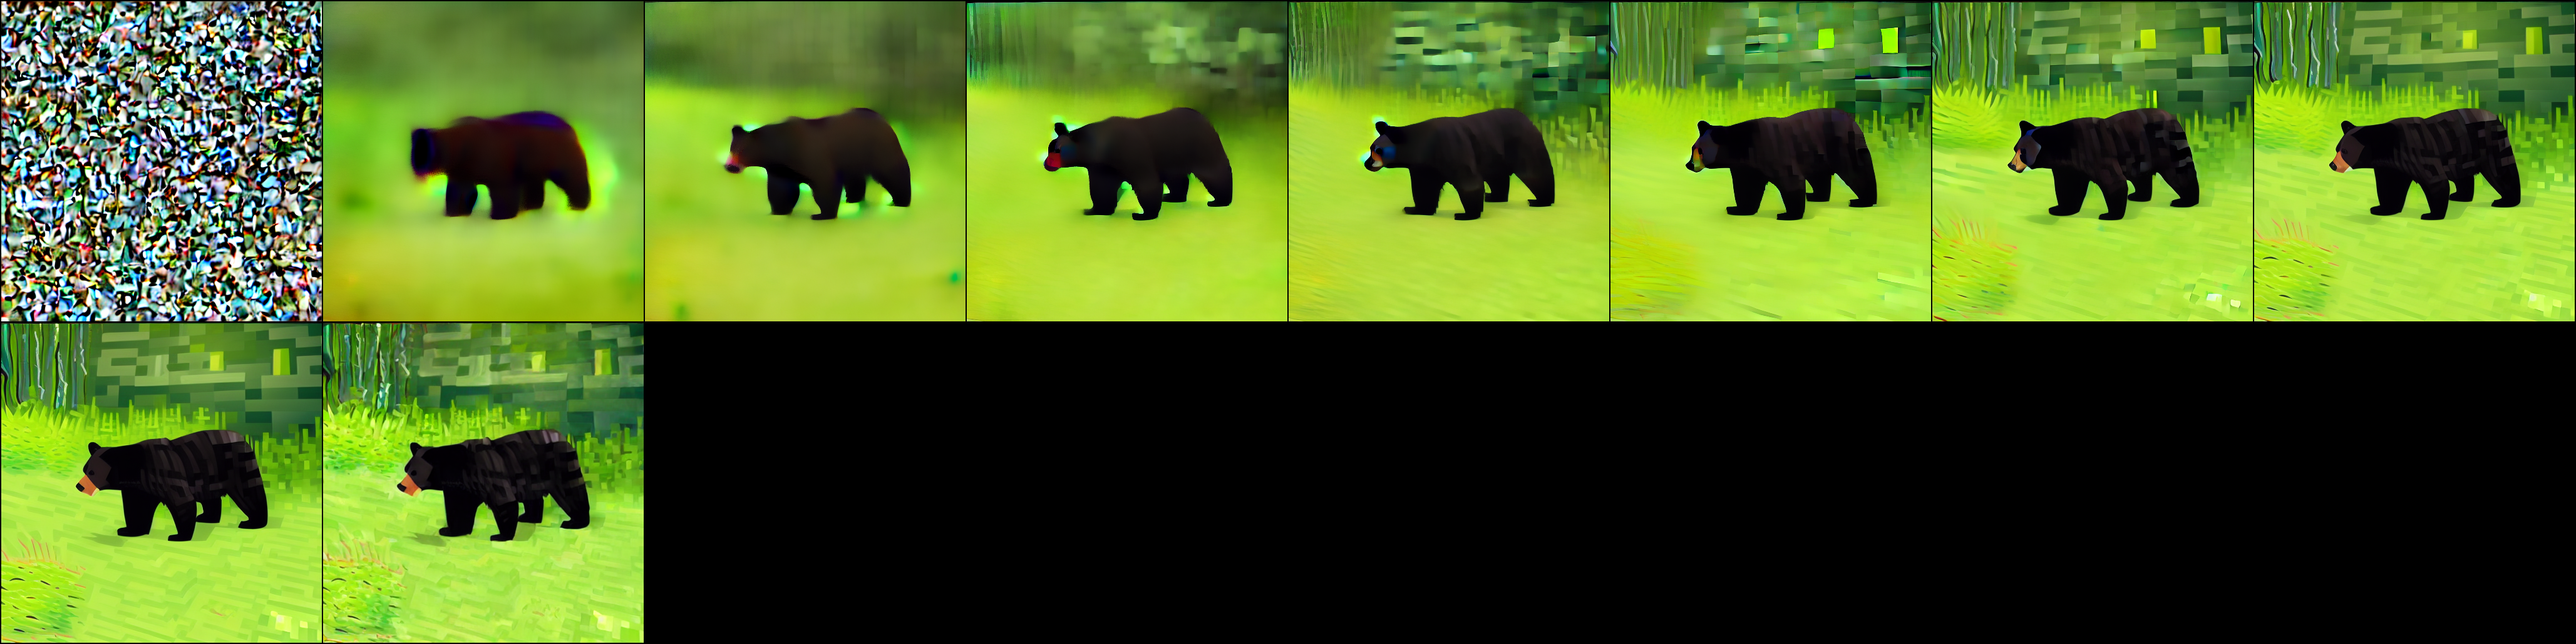
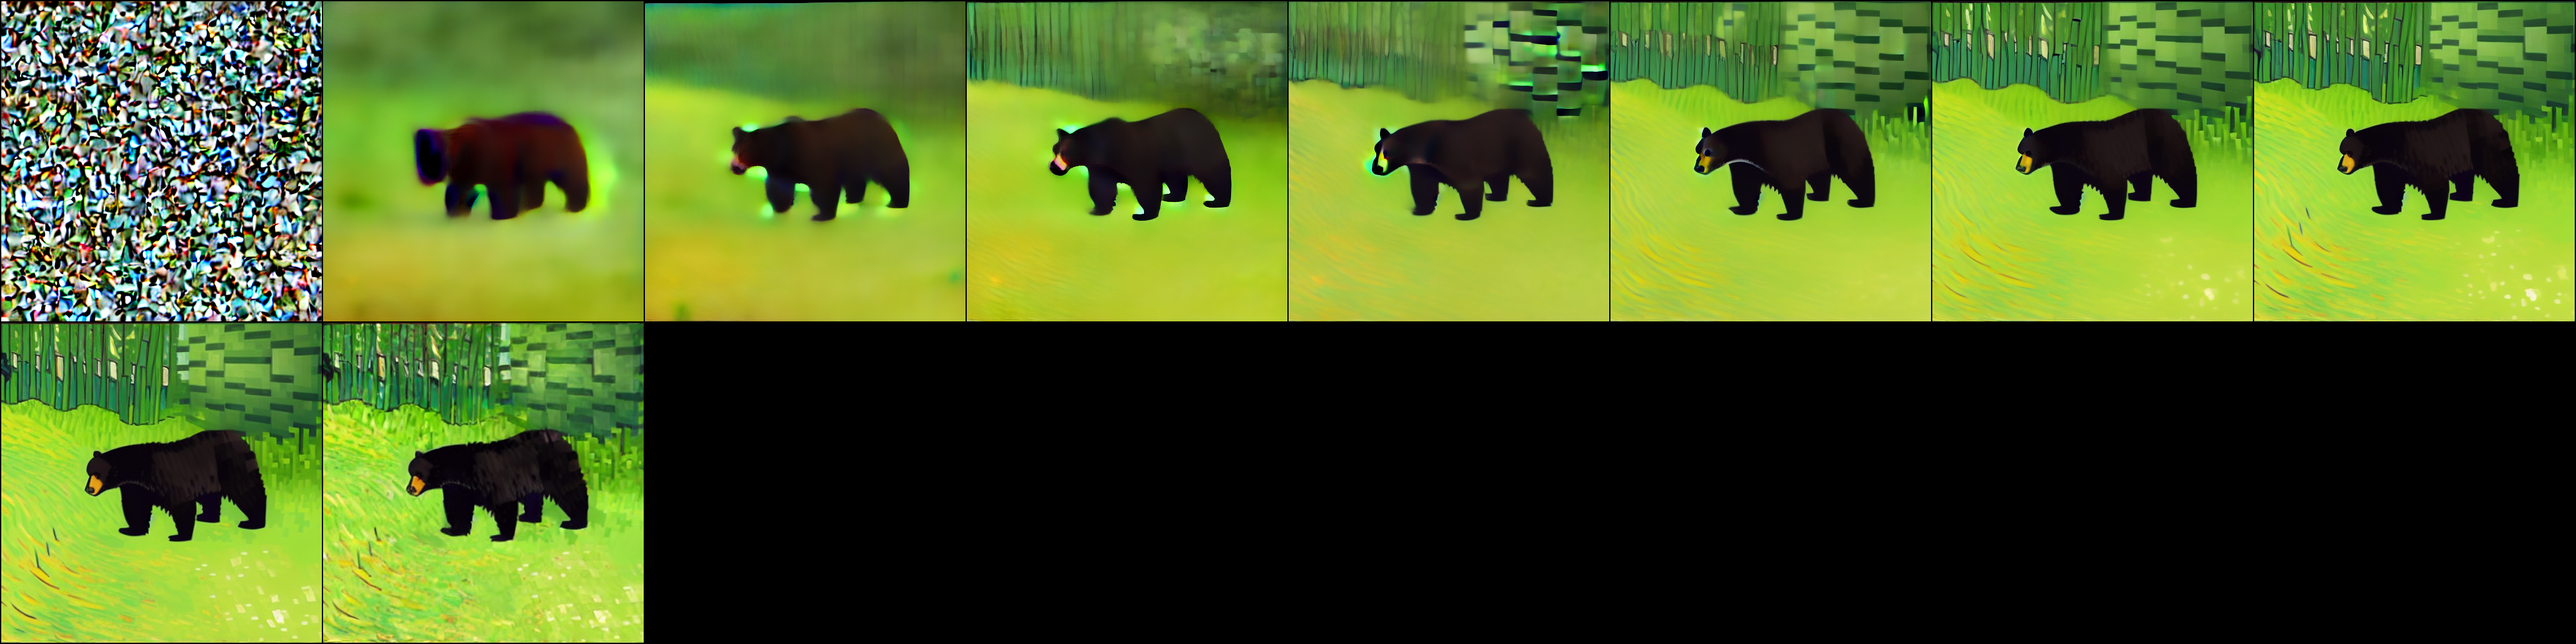
evaluator

diff --git a/evaluation/utils.py b/evaluation/utils.py
@@ -2,6 +2,10 @@ import numpy as np
 import torch
 import cv2
 from torchvision import utils
+import lpips
+import torch.nn.functional as F
+from torchvision.models import inception_v3
+from scipy.linalg import sqrtm
 
 
 def save_image(image_path, image):
@@ -65,3 +69,57 @@ def calculate_psnr(img1, img2):
     if mse == 0:
         return 100
     return 10 * torch.log10(1 / mse)
+
+
+def calculate_lpips(img1, img2):
+    device = torch.device('cuda' if torch.cuda.is_available() else 'cpu')
+    
+    if isinstance(img1, np.ndarray):
+        img1 = torch.from_numpy(img1)
+    if isinstance(img2, np.ndarray):
+        img2 = torch.from_numpy(img2)
+    
+    if img1.ndim == 2:
+        img1 = img1.unsqueeze(0).repeat(3, 1, 1)
+    elif img1.ndim == 3:
+        if img1.shape[0] != 3 and img1.shape[2] == 3:
+            img1 = img1.permute(2, 0, 1)
+    if img2.ndim == 2:
+        img2 = img2.unsqueeze(0).repeat(3, 1, 1)
+    elif img2.ndim == 3:
+        if img2.shape[0] != 3 and img2.shape[2] == 3:
+            img2 = img2.permute(2, 0, 1)
+    
+    img1 = img1.unsqueeze(0).float()
+    img2 = img2.unsqueeze(0).float()
+    
+    def normalize_img(tensor):
+        if tensor.max() > 1:
+            return tensor / 127.5 - 1.0
+        else:
+            return tensor * 2 - 1.0
+    
+    img1 = normalize_img(img1)
+    img2 = normalize_img(img2)
+    
+    loss_fn = lpips.LPIPS(net='vgg').to(device)
+    img1 = img1.to(device)
+    img2 = img2.to(device)
+    
+    with torch.no_grad():
+        dist = loss_fn(img1, img2)
+    
+    return dist.item()
+
+def total_variation(image):
+    image = image.float()
+    
+    diff_h = image[:, :, 1:] - image[:, :, :-1]
+    diff_v = image[:, 1:, :] - image[:, :-1, :]
+    
+    tv_h = torch.sqrt(diff_h ** 2 + 1e-6)  
+    tv_v = torch.sqrt(diff_v ** 2 + 1e-6)
+    
+    tv = torch.sum(tv_h) + torch.sum(tv_v)
+    
+    return tv.item()

diff --git a/model/lib/stable_diffusion/ldm/models/diffusion/ddim.py b/model/lib/stable_diffusion/ldm/models/diffusion/ddim.py
@@ -610,7 +610,7 @@ class DDIMSampler(object):
         xt_next = a_prev.sqrt() * x0 + dir_xt + noise
         return xt_next
 
-    def p_sample_ddim_with_eps(self, x, c_right, c_left, t, index, fusion_mode='gaussian', fusion_param=None, repeat_noise=False, use_original_steps=False, quantize_denoised=False,
+    def p_sample_ddim_with_eps(self, x, c_right, c_left, t, index, fusion_mode='gaussian', repeat_noise=False, use_original_steps=False, quantize_denoised=False,
                                temperature=1., noise_dropout=0., score_corrector=None, corrector_kwargs=None,
                                unconditional_guidance_scale=1., unconditional_conditioning=None, eps=None):
         b, *_, device = *x.shape, x.device
@@ -651,9 +651,13 @@ class DDIMSampler(object):
         if fusion_mode == "linear":
             mask = torch.linspace(1, 0, steps=width, device=device).view(1, 1, 1, width)
         elif fusion_mode == "gaussian":
-            sigma = fusion_param if fusion_param is not None else 0.2
-            x_lin = torch.linspace(0, 1, steps=width, device=device)
-            mask = torch.exp(-0.5 * ((x_lin - 0.0) / sigma) ** 2).view(1, 1, 1, width)
+            sharpness = 20.0 
+            
+            x_lin = torch.linspace(1, 0, steps=width, device=device)
+            mask = torch.exp(sharpness * (x_lin - 0.5)) / (torch.exp(sharpness * (x_lin-0.5))+1).view(1, 1, 1, width)
+            
+            # sigma = fusion_param if fusion_param is not None else 0.2
+            # mask = torch.exp(-0.5 * ((x_lin - 0.0) / sigma) ** 2).view(1, 1, 1, width)
         else:
             raise ValueError("fusion_mode must be either 'linear' or 'gaussian'")
 

diff --git a/evaluation/translate_text.py b/evaluation/translate_text.py
@@ -3,7 +3,7 @@ import torch
 from tqdm import tqdm
 import pandas as pd
 from model.energy.clean_clip import DirectionalCLIP
-from .utils import save_image, calculate_ssim, calculate_psnr
+from .utils import save_image, calculate_ssim, calculate_psnr, calculate_lpips, total_variation
 
 
 class Evaluator(object):
@@ -109,6 +109,11 @@ class Evaluator(object):
                 ((img - original_img) ** 2).sum(2).sum(1).sum(0)
             ).item()
             all_l2 += l2
+            
+            lpips = calculate_lpips(img, original_img)
+            
+            total_variation_original = total_variation(original_img)
+            total_variation_generated = total_variation(img)
 
             print('clip_score: {}'.format(clip_score))
             print('dclip_score: {}'.format(dclip_score))
@@ -119,6 +124,10 @@ class Evaluator(object):
             print('psnr: {}'.format(psnr))
             print('ssim: {}'.format(ssim))
             print('l2: {}'.format(l2))
+            print('lpips: {}'.format(lpips))
+            print('total_variation_original: {}'.format(total_variation_original))
+            print('total_variation_generated: {}'.format(total_variation_generated))
+            print('delta_total_variation: {}'.format(total_variation_generated - total_variation_original))
             print('-' * 50)
 
             sample_results['encode_text'].append(encode_text)

diff --git a/evaluation/test_evaluation.py b/evaluation/test_evaluation.py
@@ -1,0 +1,40 @@
+from utils import save_image, calculate_ssim, calculate_psnr, ssim, calculate_lpips, total_variation
+import cv2
+import torch
+import numpy
+
+def load_image(image_path):
+    """
+    Charge une image depuis le chemin fourni.
+    L'image est lue en couleur (RGB) et retournée sous forme de numpy array.
+    """
+    img = cv2.imread(image_path, cv2.IMREAD_COLOR)
+    if img is None:
+        raise ValueError(f"Erreur lors du chargement de l'image : {image_path}")
+    # Convertir de BGR (format OpenCV) en RGB
+    img = cv2.cvtColor(img, cv2.COLOR_BGR2RGB)
+    return img
+
+def main():
+    # Remplacez ces chemins par les chemins réels de vos images
+    image1_path = "chemin/vers/image1.jpg"
+    image2_path = "chemin/vers/image2.jpg"
+    
+    # Charger les images
+    img1 = load_image(image1_path)
+    img2 = load_image(image2_path)
+    
+    # Convertir les images numpy (H, W, C) en tenseurs torch (C, H, W)
+    img1_tensor = torch.from_numpy(img1).permute(2, 0, 1)
+    img2_tensor = torch.from_numpy(img2).permute(2, 0, 1)
+    
+    # Calculer LPIPS
+    lpips_score = calculate_lpips(img1, img2)
+    print("LPIPS:", lpips_score)
+    
+    # Calculer la variation totale sur la première image
+    tv_score = total_variation(img1_tensor)
+    print("Total Variation (image 1):", tv_score)
+
+if __name__ == '__main__':
+    main()
